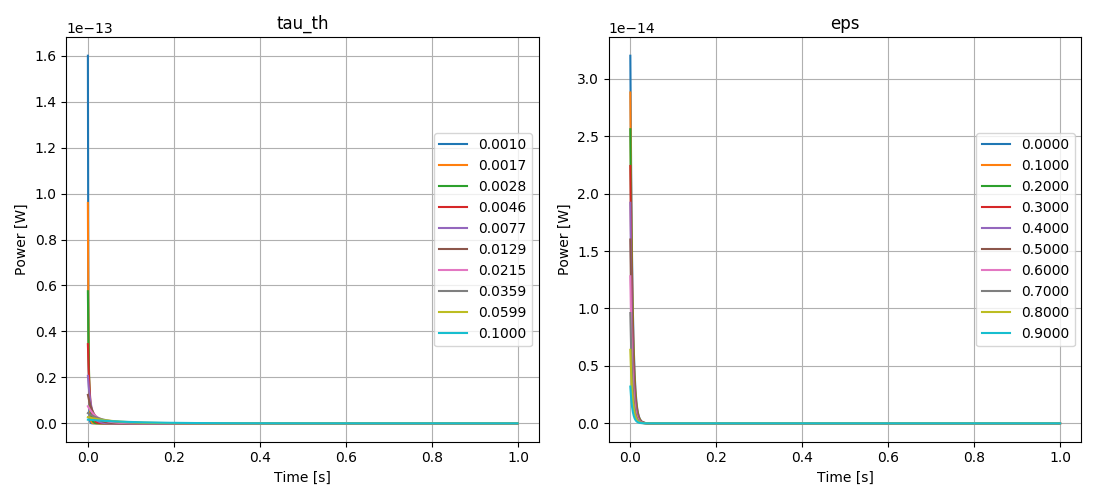
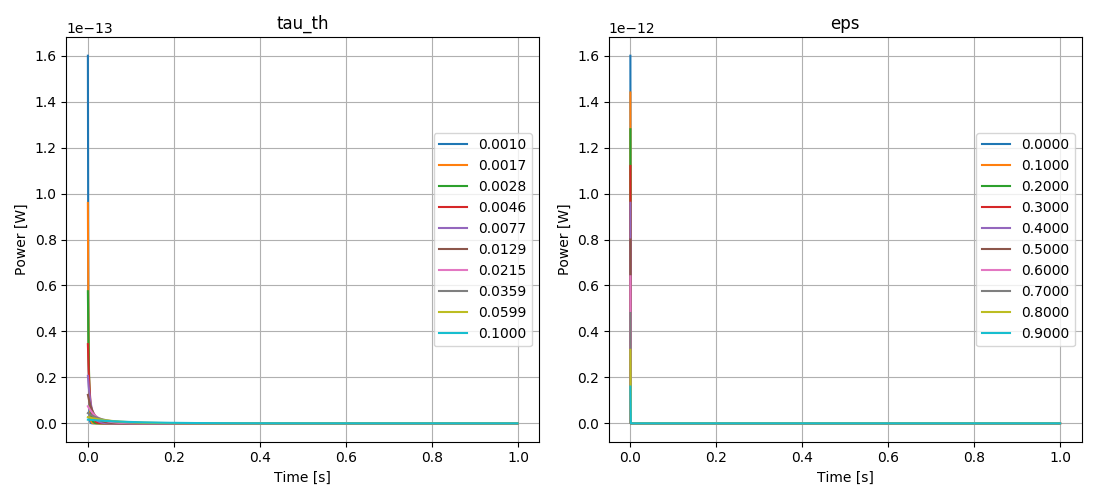
Added the event response resolution with temporal diagonalization (for cross-check mainly as it can only consider a Dirac energy injection).

diff --git a/ethem/first_order.py b/ethem/first_order.py
@@ -105,6 +105,101 @@ def impedance_matrix_param(param, eval_dict, auto_ss=True):
     return impedance_matrix_fun
 
 
+def eigen_fun(eval_dict):
+    """ Diagonalize of the coupling matrix and return the amplitude and the
+    time constants for the temporal pulses.
+    Assuming a Dirac power injection to start with.
+
+    See also
+    ========
+
+    """
+    coup_mat = System.coupling_matrix
+    coup_mat_num = coup_mat.subs(eval_dict)
+    coup_mat_eval = np.array(coup_mat_num).astype('float64')
+
+    #eigen-values and vectors
+    eig, proj = np.linalg.eig(coup_mat_eval)
+    tau_coup = 1.0/np.real(eig)
+
+    proj_inv = np.linalg.inv(proj)
+
+    import sympy as sy
+    per = System.perturbation
+    per_td = (System.capacity_matrix)**-1 * sy.Matrix(per.fraction)
+
+    phi_amp = [float((f*per.energy).subs(eval_dict)) for f in per_td]
+    eig_amp = proj_inv.dot(phi_amp)
+
+    def pulse_fun(time_array):
+
+        eig_vec = [a*np.exp(-time_array/tau) for a,tau in zip(eig_amp, tau_coup)]
+        pulse_array = proj.dot(eig_vec)
+
+        return pulse_array
+
+    return tau_coup, eig_amp, pulse_fun
+
+
+def eigen_param(param, eval_dict, auto_ss=True):
+
+    npar = len(param)
+
+    char_dict = eval_dict.copy()
+
+    for p in param:
+        try:
+            char_dict.pop(p)
+        except:
+            pass
+
+    coup_mat = System.coupling_matrix
+    coup_mat_num = coup_mat.subs(char_dict)
+
+    per = System.perturbation
+    per_matrix = (System.capacity_matrix)**-1 * sy.Matrix(per.fraction) * per.energy
+    per_num = per_matrix.subs(char_dict)
+
+    phi = tuple(System.phi_vect)
+
+    coup_mat_simple = sy.lambdify(phi+param, coup_mat_num, modules="numpy")
+    per_simple = sy.lambdify(phi+param, per_num, modules="numpy")
+
+    if auto_ss:
+        ss_fun = solve_sse_param(param, eval_dict)
+
+    def eigen_fun(p, sol_ss=[]):
+        assert len(p) == npar
+
+        if auto_ss:
+            sol_ss = ss_fun(p).x
+        else:
+            assert len(sol_ss) == len(phi)
+
+        args = tuple(sol_ss) + tuple(p)
+        coup_mat_eval = coup_mat_simple(*args)
+        per_eval = per_simple(*args)
+
+        #eigen-values and vectors
+        eig, proj = np.linalg.eig(coup_mat_eval)
+        tau_array = 1.0/np.real(eig)
+
+        proj_inv = np.linalg.inv(proj)
+
+        amp_array = proj_inv.dot(per_eval)
+
+        def pulse_fun(time_array):
+
+            eig_vec = [a*np.exp(-time_array/tau) for a,tau in zip(amp_array, tau_array)]
+            pulse_array = proj.dot(eig_vec)
+
+            return pulse_array
+
+        return tau_array, amp_array, pulse_fun
+
+    return eigen_fun
+
+
 def per_fft(per):
     """ Return the symbolic expression of the fourier transform of the event
     perturbation.

diff --git a/ethem/red_tm/sum_up_param.py b/ethem/red_tm/sum_up_param.py
@@ -142,6 +142,60 @@ def test_impedance_matrix_param():
 
 #%%
 #==============================================================================
+# EIGEN PARAM
+#==============================================================================
+def test_eigen_param():
+    """ Scripts testing the eigen_param function.
+    Produce 4 plots similar to a crude search for an optimization point.
+    """
+    time_array = np.arange(0., L, fs**-1)
+
+    param_plot = (
+            eth.System.Voltstat_b.voltage,
+            eth.System.Thermostat_b.temperature,
+            eth.System.ThermalLink_ep.cond_alpha,
+            eth.System.ThermalLink_leak.cond_alpha,
+    )
+
+    param_arrays = (
+            10**np.linspace(np.log10(0.02), np.log10(20), 10),
+            np.linspace(0.015, 0.050, 10),
+            10**np.linspace(1, 3, 10),
+            10**np.linspace(-3, -1, 10),
+    )
+
+    ### PLOT
+    fig_iv, ax_iv = plt.subplots(ncols=2, nrows=2,
+                                 num='temporal pulses', figsize=(11, 11))
+    ax_iv = ax_iv.ravel()
+
+    for ind, ax in enumerate(ax_iv):
+
+        param_sym = (
+                param_plot[ind],
+        )
+
+        eigen_param_fun = eth.eigen_param(param_sym, evad, auto_ss=True)
+
+        for p in tqdm.tqdm(param_arrays[ind]):
+
+            tau_array, amp_array, pulse_fun = eigen_param_fun((p,))
+            pulse_array = pulse_fun(time_array)[-1]
+
+            ax.plot(time_array, pulse_array, label='{0:.4f}'.format(p))
+
+        ax.grid(True)
+        ax.set_title(str(param_plot[ind]))
+        ax.set_ylabel('Voltage [V]')
+        ax.set_xlabel('Time [s]')
+        ax.legend(loc='right')
+
+    fig_iv.tight_layout()
+    fig_iv.savefig('output/eigen_param.png')
+
+
+#%%
+#==============================================================================
 # PER PARAM
 #==============================================================================
 def test_per_param():
@@ -530,6 +584,8 @@ if __name__ == '__main__':
 #
 #    test_impedance_matrix_param()
 #
+#    test_eigen_param()
+#
 #    test_per_param()
 #
 #    test_perf_param()
@@ -544,12 +600,12 @@ if __name__ == '__main__':
 #    for k,v in AA.iteritems():
 #        print v.shape
 #        AAA[k] = v[-1, :]
-
+#
 #    test_response_noise_param()
-
+#
 #    test_noise_tot_param()
-
-    fa, na = test_nep_ref_param()
+#
+#    fa, na = test_nep_ref_param()
 
     print 'Done.'
 

diff --git a/ethem/red_tm/sum_up_red_tm.py b/ethem/red_tm/sum_up_red_tm.py
@@ -145,27 +145,33 @@ fi_freq_psd, fi_pulse_psd = eth.psd(fi_pulse_fft, fs)
 #==============================================================================
 # TEMPORAL DIAGONALIZATION
 #==============================================================================
-coup_mat = eth.System.coupling_matrix
-coup_mat_num = coup_mat.subs(edict)
-coup_mat_eval = np.array(coup_mat_num).astype('float64')
-
-#eigen-values and vectors
-eig, proj = LA.eig(coup_mat_eval)
-tau_coup = 1.0/np.real(eig)
-
-proj_inv = LA.inv(proj)
-
-import sympy as sy
-per_td = (eth.System.capacity_matrix)**-1 * sy.Matrix(per.fraction)
-
-phi_amp = [float((f*per.energy).subs(edict)) for f in per_td]
-eig_amp = proj_inv.dot(phi_amp)
-
+#coup_mat = eth.System.coupling_matrix
+#coup_mat_num = coup_mat.subs(edict)
+#coup_mat_eval = np.array(coup_mat_num).astype('float64')
+#
+##eigen-values and vectors
+#eig, proj = LA.eig(coup_mat_eval)
+#tau_coup = 1.0/np.real(eig)
+#
+#proj_inv = LA.inv(proj)
+#
+#import sympy as sy
+#per_td = (eth.System.capacity_matrix)**-1 * sy.Matrix(per.fraction)
+#
+#phi_amp = [float((f*per.energy).subs(edict)) for f in per_td]
+#eig_amp = proj_inv.dot(phi_amp)
+#
 td_time_array = np.arange(0, L, fs**-1)
+#
+#eig_vec = [a*np.exp(-td_time_array/tau) for a,tau in zip(eig_amp, tau_coup)]
+##exp_vec = map(lambda x,y: y*np.exp(-t/x), tau, A)
+#td_pulse_array = proj.dot(eig_vec)
+#
+## pulse amplitude
+#td_amp = max(abs(td_pulse_array[-1]))
 
-eig_vec = [a*np.exp(-td_time_array/tau) for a,tau in zip(eig_amp, tau_coup)]
-#exp_vec = map(lambda x,y: y*np.exp(-t/x), tau, A)
-td_pulse_array = proj.dot(eig_vec)
+tau_coup, amp_coup, pulse_fun = eth.eigen_fun(edict)
+td_pulse_array = pulse_fun(td_time_array)
 
 # pulse amplitude
 td_amp = max(abs(td_pulse_array[-1]))
